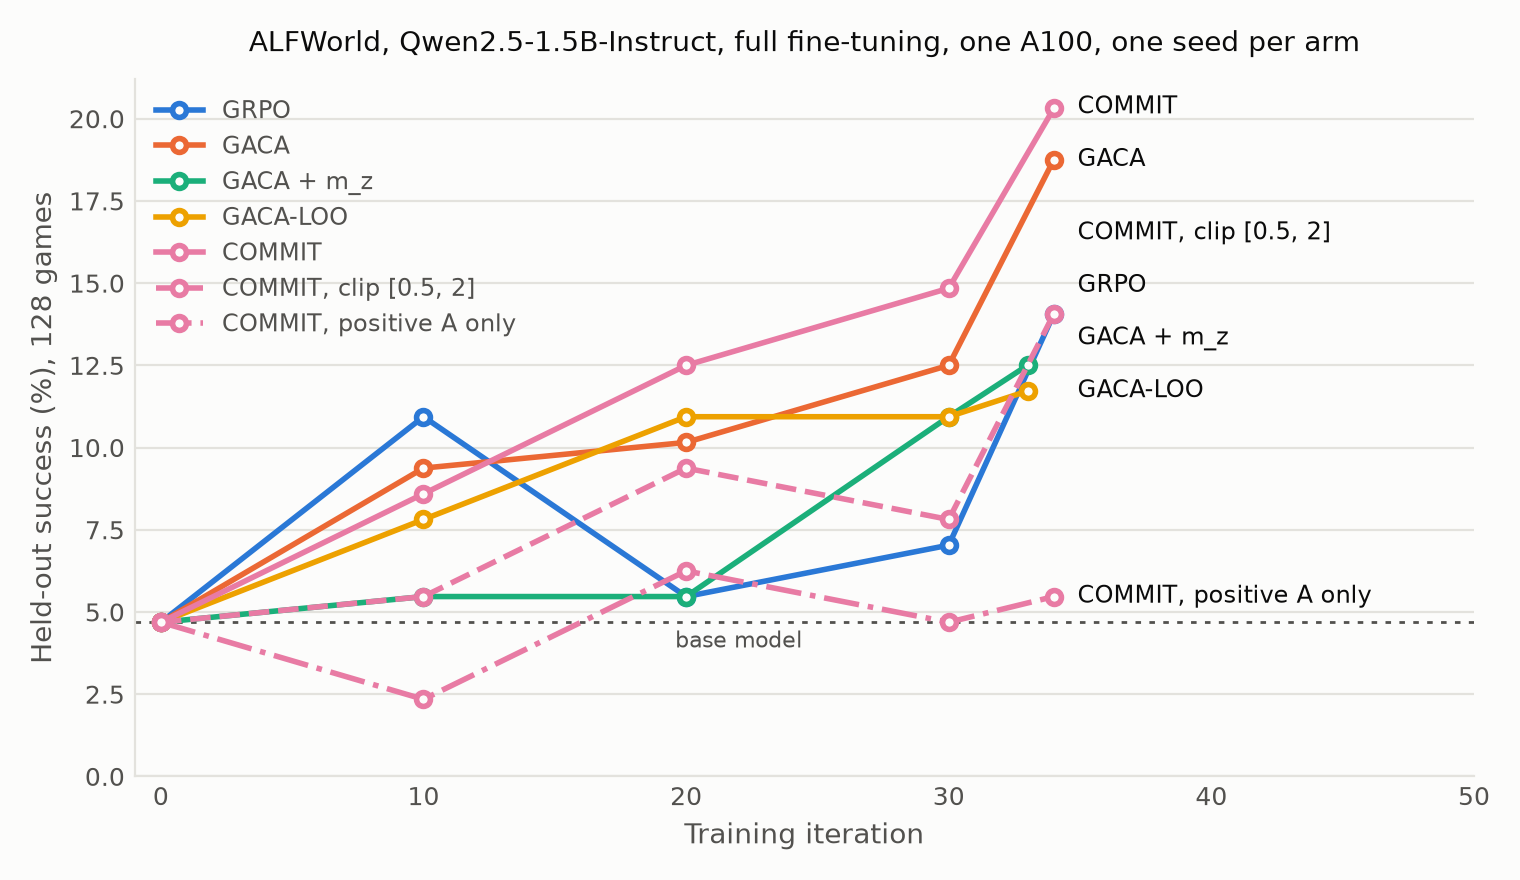
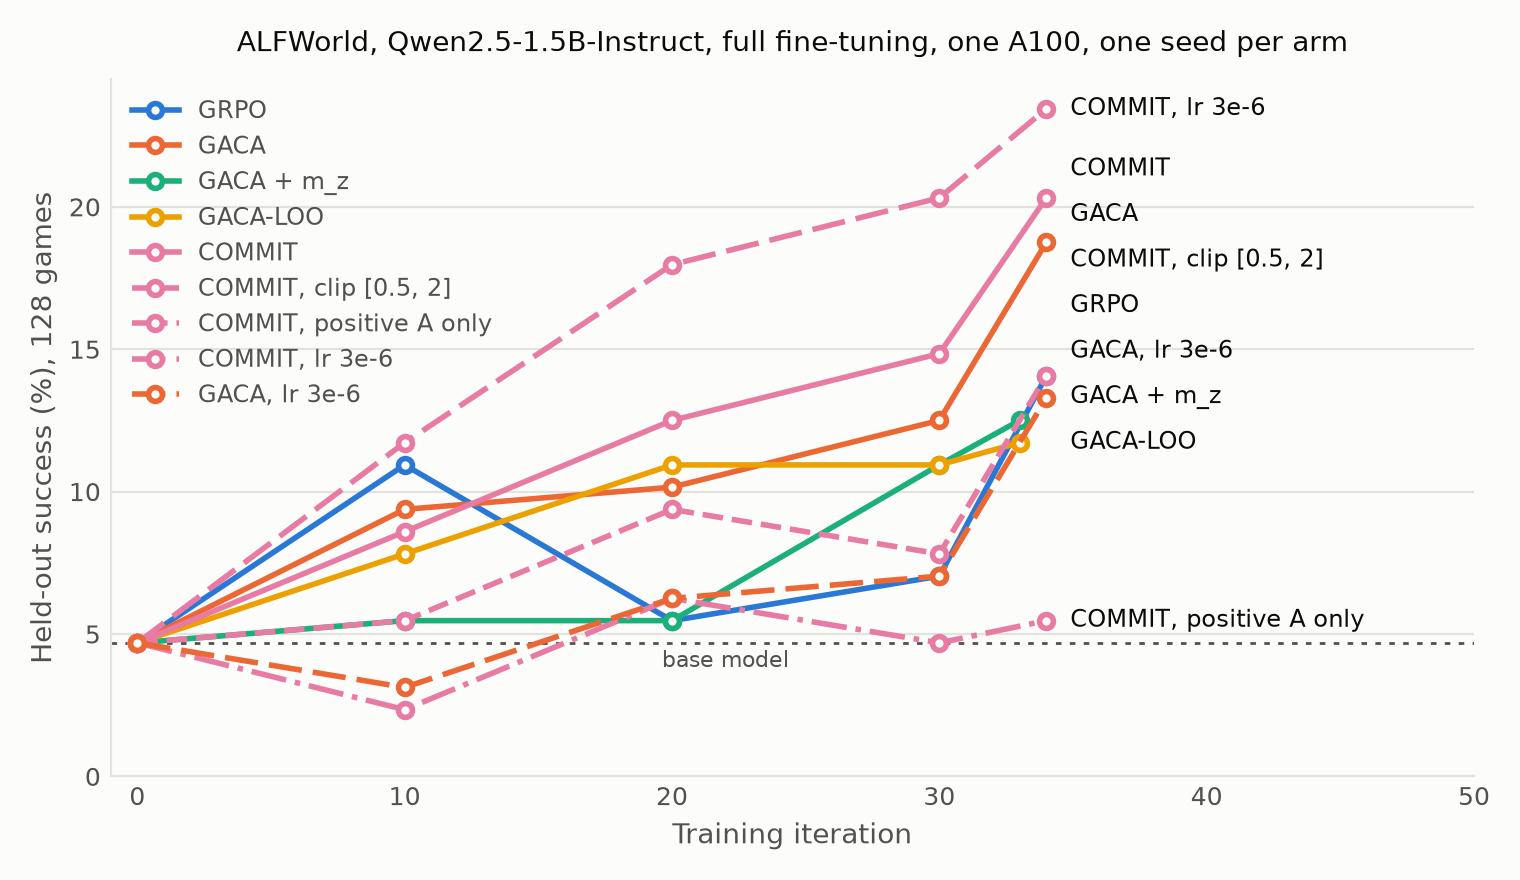
Report: add the hill-climbing arms (lr 3e-6, action-span weight, dynamic sampling)

diff --git a/src/report.py b/src/report.py
@@ -37,13 +37,20 @@ VERL_ARMS = [  # (dir, label, role, what differs from GACA/GRPO)
     ("commit_c05", "COMMIT, clip [0.5, 2]", "treatment", "probe with token weights clipped to [0.5, 2] instead of [0.25, 4]"),
     ("commit_pos", "COMMIT, positive A only", "treatment", "probe weights only on steps with a positive advantage; others uniform"),
     ("commit_ref", "COMMIT, frozen-ref scorer", "treatment", "probe scored by the frozen reference model instead of the policy"),
+    # hill-climbing queue (2026-11-10, DECISIONS.md)
+    ("commit_lr3", "COMMIT, lr 3e-6", "hill-climb", "COMMIT (as commit_s1) with learning rate 3e-6 instead of 1e-6"),
+    ("gaca_lr3", "GACA, lr 3e-6", "hill-climb", "GACA with learning rate 3e-6 instead of 1e-6"),
+    ("gaca_actw", "GACA + action-span weight", "hill-climb", "probe-free token weights: <action> span 2x, reasoning 1x, mean 1"),
+    ("commit_ds", "COMMIT + dynamic sampling", "hill-climb", "COMMIT, groups with all-equal rewards dropped and refilled (DAPO), up to 3 passes"),
 ]
 VERL_COLORS = {"grpo": "#2a78d6", "gaca": "#eb6834", "gaca_msize": "#1baf7a", "gaca_loo": "#eda100",
                "commit_s1": "#e87ba4", "commit_c05": "#e87ba4", "commit_pos": "#e87ba4",
-               "commit_ref": "#e87ba4"}
+               "commit_ref": "#e87ba4", "commit_lr3": "#e87ba4", "commit_ds": "#e87ba4",
+               "gaca_lr3": "#eb6834", "gaca_actw": "#eb6834"}
 # validated categorical slots 1-5, fixed order; probe variants keep the probe's hue (colour follows the
 # method) and are told apart by line style + legend + direct labels
-VERL_STYLE = {"commit_c05": "--", "commit_pos": "-.", "commit_ref": (0, (1, 1, 4, 1))}
+VERL_STYLE = {"commit_c05": "--", "commit_pos": "-.", "commit_ref": (0, (1, 1, 4, 1)),
+              "commit_lr3": (0, (6, 2)), "commit_ds": ":", "gaca_lr3": (0, (6, 2)), "gaca_actw": ":"}
 
 
 def _verl_metrics(path):

diff --git a/docs/RESULTS.md b/docs/RESULTS.md
@@ -27,6 +27,9 @@ is 0.78 points.
 | COMMIT | treatment | GACA, step advantage spread over tokens by the commitment probe (training seed 1) | done | 34 | 5.19 | **20.3%** (26/128) | 20.3% (34) |
 | COMMIT, clip [0.5, 2] | treatment | probe with token weights clipped to [0.5, 2] instead of [0.25, 4] | done | 34 | 4.96 | **14.1%** (18/128) | 14.1% (34) |
 | COMMIT, positive A only | treatment | probe weights only on steps with a positive advantage; others uniform | done | 34 | 4.98 | **5.5%** (7/128) | 6.2% (20) |
+| COMMIT, lr 3e-6 | hill-climb | COMMIT (as commit_s1) with learning rate 3e-6 instead of 1e-6 | done | 34 | 4.66 | **23.4%** (30/128) | 23.4% (34) |
+| GACA, lr 3e-6 | hill-climb | GACA with learning rate 3e-6 instead of 1e-6 | done | 34 | 3.63 | **13.3%** (17/128) | 13.3% (34) |
+| GACA + action-span weight | hill-climb | probe-free token weights: <action> span 2x, reasoning 1x, mean 1 | running | 2 | 0.23 | **4.7%** (6/128) | 4.7% (0) |
 
 Final = the last evaluation (the end-of-training checkpoint). Best is reported for comparison with the
 paper's best-checkpoint convention but is optimistic: it picks the maximum over five noisy evaluations.
@@ -44,6 +47,9 @@ paper's best-checkpoint convention but is optimistic: it picks the maximum over 
 | COMMIT | 4.7 | 8.6 | 12.5 | 14.8 | 20.3 (34) |
 | COMMIT, clip [0.5, 2] | 4.7 | 5.5 | 9.4 | 7.8 | 14.1 (34) |
 | COMMIT, positive A only | 4.7 | 2.3 | 6.2 | 4.7 | 5.5 (34) |
+| COMMIT, lr 3e-6 | 4.7 | 11.7 | 18.0 | 20.3 | 23.4 (34) |
+| GACA, lr 3e-6 | 4.7 | 3.1 | 6.2 | 7.0 | 13.3 (34) |
+| GACA + action-span weight | 4.7 |  |  |  |  |
 
 ## Paired comparison of final checkpoints
 
@@ -59,27 +65,44 @@ the other does not. The base model is each arm's own iteration-0 evaluation.
 | base model vs COMMIT | 6 | 26 | 6 | 26 | 0 | 0.001 |
 | base model vs COMMIT, clip [0.5, 2] | 6 | 18 | 5 | 17 | 1 | 0.017 |
 | base model vs COMMIT, positive A only | 6 | 7 | 6 | 7 | 0 | 1.000 |
+| base model vs COMMIT, lr 3e-6 | 6 | 30 | 4 | 28 | 2 | 0.000 |
+| base model vs GACA, lr 3e-6 | 6 | 17 | 5 | 16 | 1 | 0.027 |
 | GRPO vs GACA | 18 | 24 | 7 | 13 | 11 | 0.263 |
 | GRPO vs GACA + m_z | 18 | 16 | 13 | 11 | 5 | 0.839 |
 | GRPO vs GACA-LOO | 18 | 15 | 11 | 8 | 7 | 0.648 |
 | GRPO vs COMMIT | 18 | 26 | 8 | 16 | 10 | 0.152 |
 | GRPO vs COMMIT, clip [0.5, 2] | 18 | 18 | 13 | 13 | 5 | 1.000 |
 | GRPO vs COMMIT, positive A only | 18 | 7 | 16 | 5 | 2 | 0.027 |
+| GRPO vs COMMIT, lr 3e-6 | 18 | 30 | 8 | 20 | 10 | 0.036 |
+| GRPO vs GACA, lr 3e-6 | 18 | 17 | 11 | 10 | 7 | 1.000 |
 | GACA vs GACA + m_z | 24 | 16 | 17 | 9 | 7 | 0.169 |
 | GACA vs GACA-LOO | 24 | 15 | 14 | 5 | 10 | 0.064 |
 | GACA vs COMMIT | 24 | 26 | 14 | 16 | 10 | 0.856 |
 | GACA vs COMMIT, clip [0.5, 2] | 24 | 18 | 16 | 10 | 8 | 0.327 |
 | GACA vs COMMIT, positive A only | 24 | 7 | 20 | 3 | 4 | 0.000 |
+| GACA vs COMMIT, lr 3e-6 | 24 | 30 | 12 | 18 | 12 | 0.362 |
+| GACA vs GACA, lr 3e-6 | 24 | 17 | 12 | 5 | 12 | 0.143 |
 | GACA + m_z vs GACA-LOO | 16 | 15 | 10 | 9 | 6 | 1.000 |
 | GACA + m_z vs COMMIT | 16 | 26 | 6 | 16 | 10 | 0.052 |
 | GACA + m_z vs COMMIT, clip [0.5, 2] | 16 | 18 | 8 | 10 | 8 | 0.815 |
 | GACA + m_z vs COMMIT, positive A only | 16 | 7 | 11 | 2 | 5 | 0.022 |
+| GACA + m_z vs COMMIT, lr 3e-6 | 16 | 30 | 6 | 20 | 10 | 0.009 |
+| GACA + m_z vs GACA, lr 3e-6 | 16 | 17 | 8 | 9 | 8 | 1.000 |
 | GACA-LOO vs COMMIT | 15 | 26 | 8 | 19 | 7 | 0.052 |
 | GACA-LOO vs COMMIT, clip [0.5, 2] | 15 | 18 | 8 | 11 | 7 | 0.648 |
 | GACA-LOO vs COMMIT, positive A only | 15 | 7 | 13 | 5 | 2 | 0.096 |
+| GACA-LOO vs COMMIT, lr 3e-6 | 15 | 30 | 9 | 24 | 6 | 0.014 |
+| GACA-LOO vs GACA, lr 3e-6 | 15 | 17 | 10 | 12 | 5 | 0.832 |
 | COMMIT vs COMMIT, clip [0.5, 2] | 26 | 18 | 16 | 8 | 10 | 0.152 |
 | COMMIT vs COMMIT, positive A only | 26 | 7 | 22 | 3 | 4 | 0.000 |
+| COMMIT vs COMMIT, lr 3e-6 | 26 | 30 | 9 | 13 | 17 | 0.523 |
+| COMMIT vs GACA, lr 3e-6 | 26 | 17 | 15 | 6 | 11 | 0.078 |
 | COMMIT, clip [0.5, 2] vs COMMIT, positive A only | 18 | 7 | 14 | 3 | 4 | 0.013 |
+| COMMIT, clip [0.5, 2] vs COMMIT, lr 3e-6 | 18 | 30 | 6 | 18 | 12 | 0.023 |
+| COMMIT, clip [0.5, 2] vs GACA, lr 3e-6 | 18 | 17 | 9 | 8 | 9 | 1.000 |
+| COMMIT, positive A only vs COMMIT, lr 3e-6 | 7 | 30 | 1 | 24 | 6 | 0.000 |
+| COMMIT, positive A only vs GACA, lr 3e-6 | 7 | 17 | 2 | 12 | 5 | 0.013 |
+| COMMIT, lr 3e-6 vs GACA, lr 3e-6 | 30 | 17 | 17 | 4 | 13 | 0.007 |
 
 ### Final success by task type
 
@@ -93,6 +116,8 @@ the other does not. The base model is each arm's own iteration-0 evaluation.
 | COMMIT | 4/9 | 11/40 | 6/23 | 4/18 | 0/11 | 1/27 |
 | COMMIT, clip [0.5, 2] | 2/9 | 9/40 | 4/23 | 3/18 | 0/11 | 0/27 |
 | COMMIT, positive A only | 0/9 | 4/40 | 2/23 | 1/18 | 0/11 | 0/27 |
+| COMMIT, lr 3e-6 | 4/9 | 15/40 | 8/23 | 1/18 | 0/11 | 2/27 |
+| GACA, lr 3e-6 | 3/9 | 9/40 | 4/23 | 1/18 | 0/11 | 0/27 |
 
 ## Training diagnostics (mean over iterations)
 
@@ -105,6 +130,9 @@ the other does not. The base model is each arm's own iteration-0 evaluation.
 | COMMIT | 550 | 151 | 99.2% | 91 | 0.034 | 0.36 | 0.090 | 0.96 | 0.19 -> 0.14 | -- |
 | COMMIT, clip [0.5, 2] | 525 | 131 | 99.1% | 81 | 0.021 | 0.37 | 0.092 | 0.96 | 0.20 -> 0.18 | 0.11 -> 0.10 |
 | COMMIT, positive A only | 527 | 137 | 99.2% | 78 | 0.059 | 0.36 | 0.089 | 0.96 | 0.20 -> 0.19 | 0.11 -> 0.09 |
+| COMMIT, lr 3e-6 | 493 | 127 | 99.3% | 75 | 0.123 | 0.39 | 0.098 | 0.95 | 0.18 -> 0.26 | 0.11 -> 0.09 |
+| GACA, lr 3e-6 | 384 | -- | 99.3% | 79 | 0.118 | 0.36 | 0.091 | 0.96 | -- | -- |
+| GACA + action-span weight | 410 | -- | 90.1% | 97 | 0.005 | 0.39 | 0.097 | 0.96 | -- | -- |
 
 Paper Table 7 (ALFWorld): c_t std 0.31, lambda std 0.08, clamped < 0.01, step coverage 0.86.
 q(0): probability of the eventual action before any reasoning (probe arms). CIR: Causal Importance of
